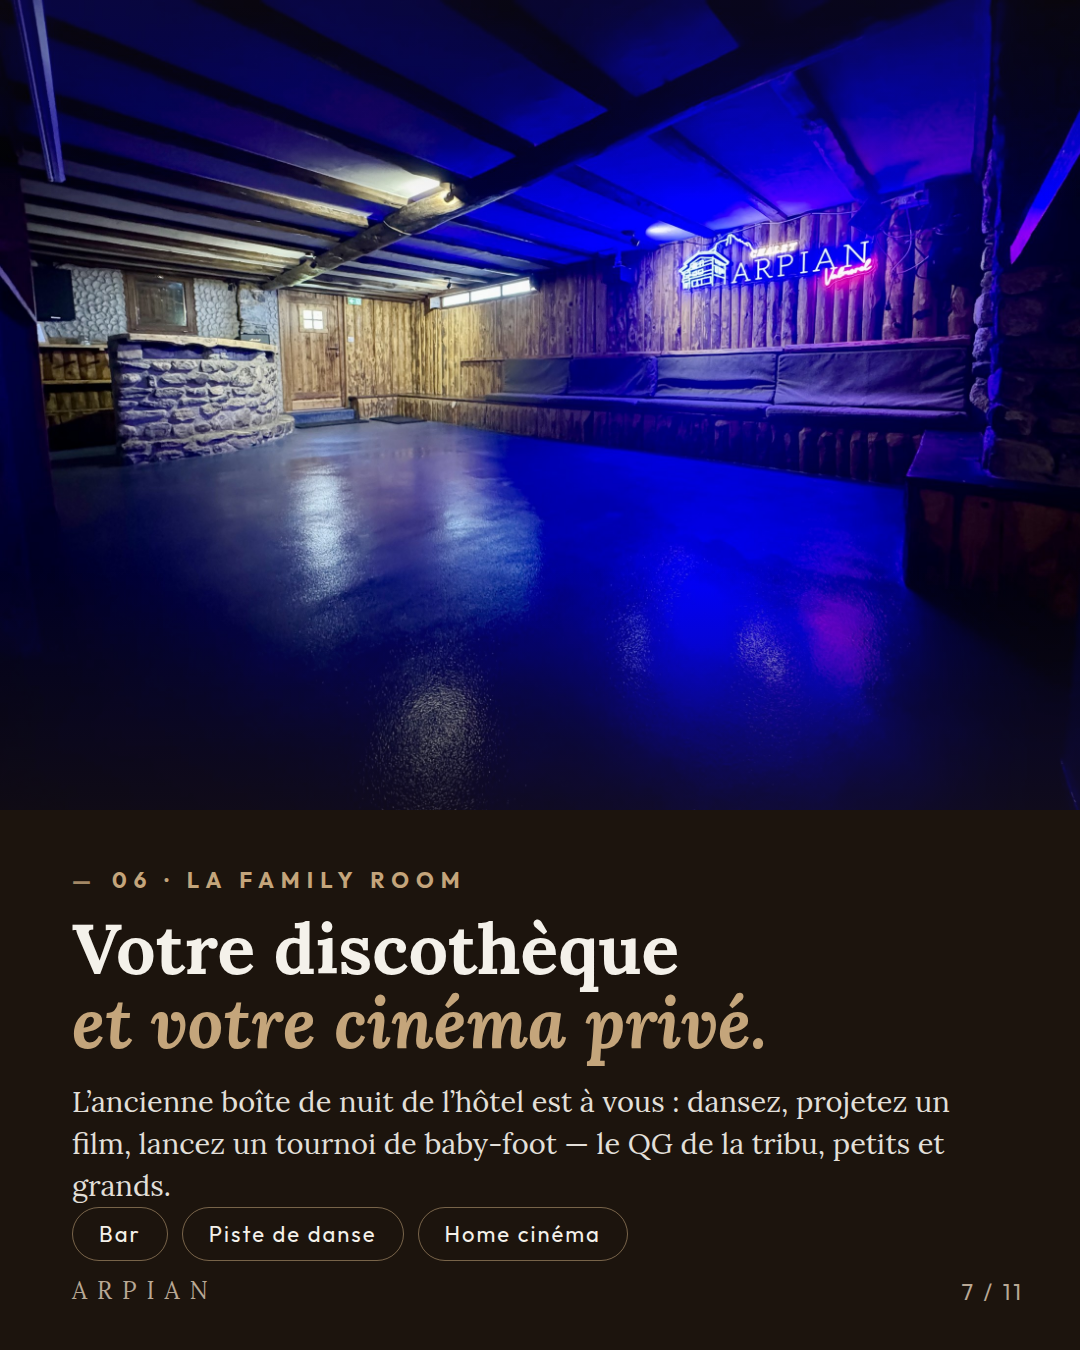
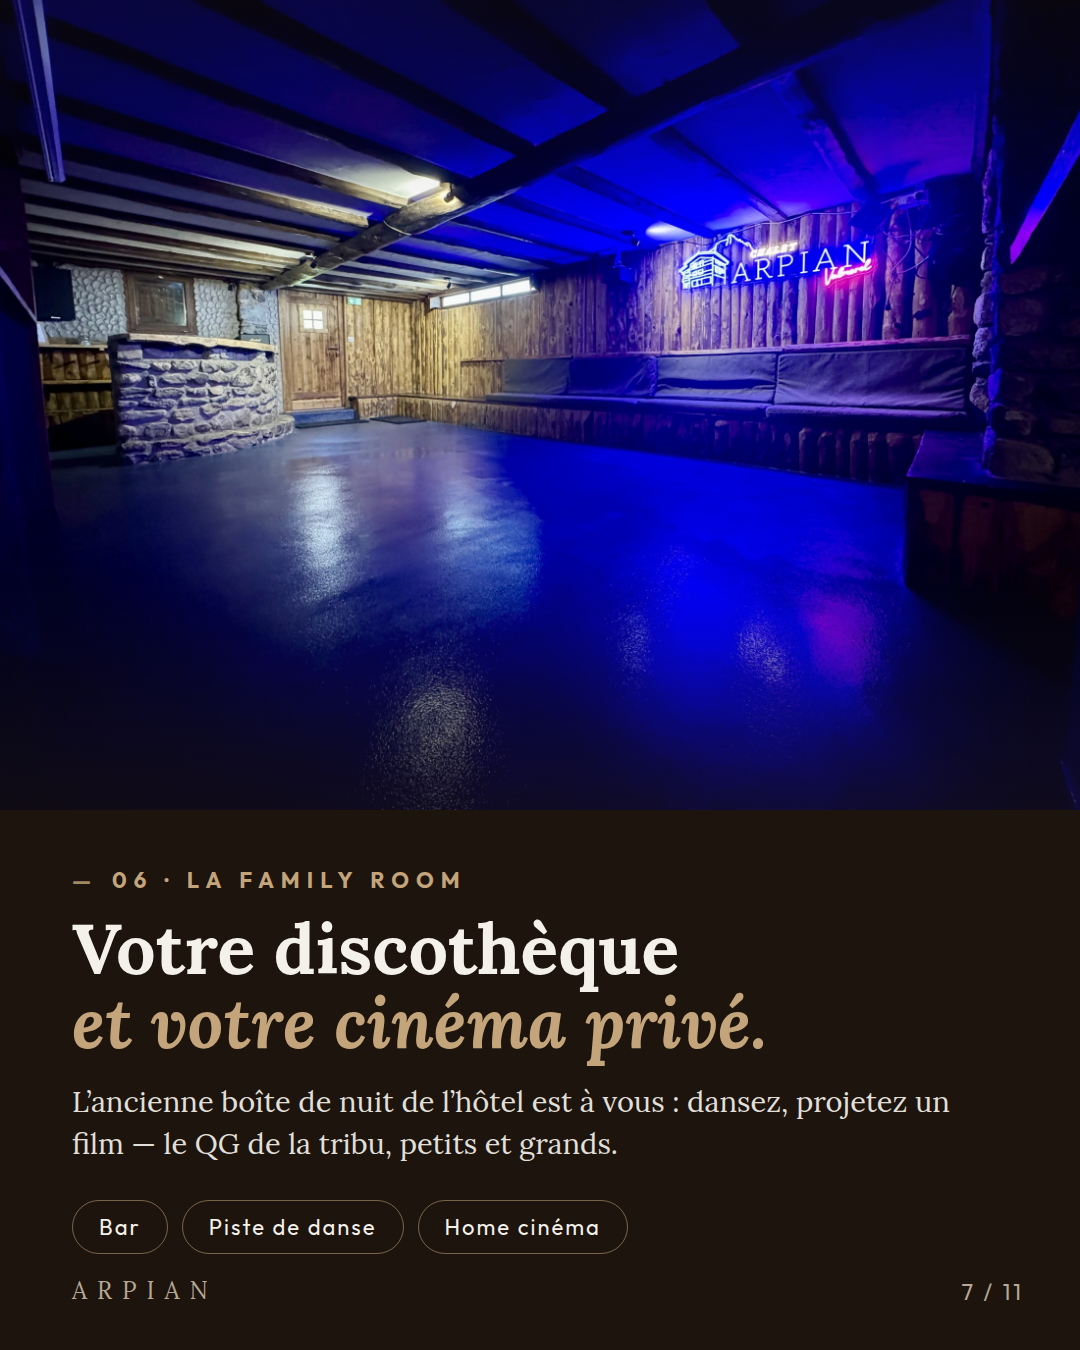
Drop foosball mention from disco/cinema slide
The gaming slide already covers it.

Claude-Session: https://claude.ai/code/session_01Y944qe7GtTpnCjNEws8d2U

Changed region(s): [[0.0611, 0.84, 0.8861, 0.9333]]

diff --git a/carrousel-linkedin/slides.html b/carrousel-linkedin/slides.html
@@ -189,7 +189,7 @@
   <div class="panel">
     <div class="eyebrow"><span class="dash">&mdash;</span>06 &middot; La family room</div>
     <div class="room-title">Votre discoth&egrave;que <span class="it"><br>et votre cin&eacute;ma priv&eacute;.</span></div>
-    <div class="desc">L&rsquo;ancienne bo&icirc;te de nuit de l&rsquo;h&ocirc;tel est &agrave; vous&nbsp;: dansez, projetez un film, lancez un tournoi de baby-foot &mdash; le QG de la tribu, petits et grands.</div>
+    <div class="desc">L&rsquo;ancienne bo&icirc;te de nuit de l&rsquo;h&ocirc;tel est &agrave; vous&nbsp;: dansez, projetez un film &mdash; le QG de la tribu, petits et grands.</div>
   <div class="chips"><div class="chip">Bar</div><div class="chip">Piste de danse</div><div class="chip">Home cin&eacute;ma</div></div>
   <div class="brand-corner">ARPIAN</div>
   <div class="pagenum">7 / 11</div>
